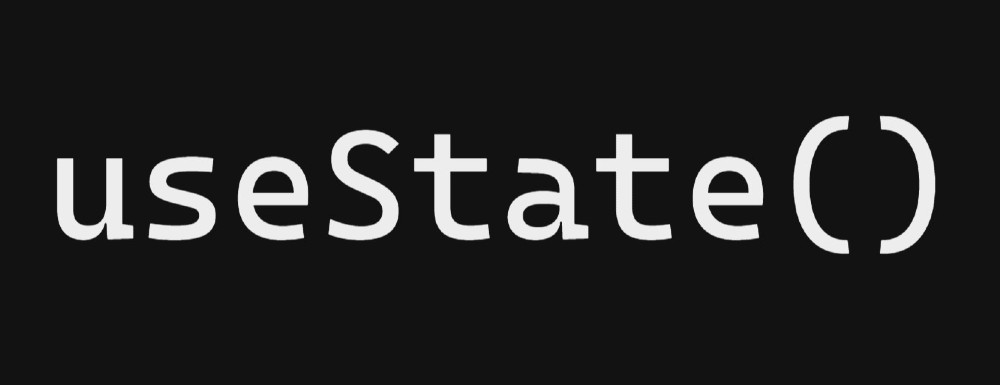
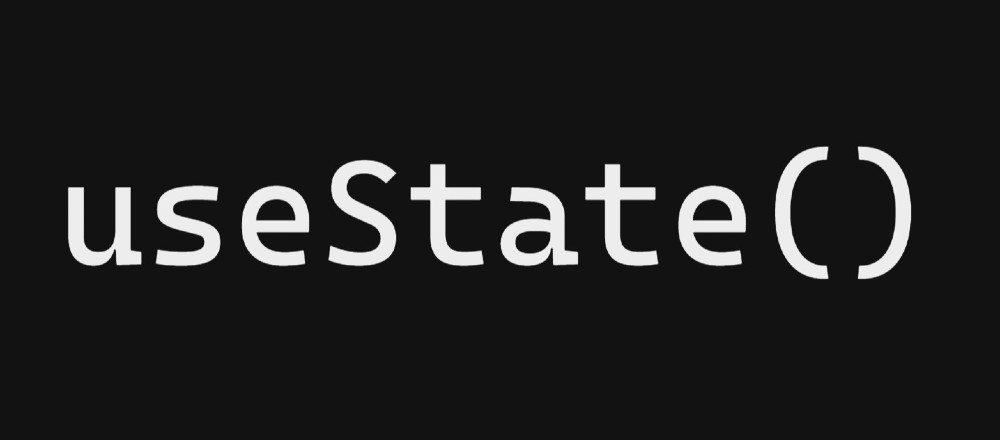
Update BlogPosts and resized useState screenshot.jpg

Changed region(s): [[0.031, 0.2805, 0.961, 0.6545]]

diff --git a/src/components/Blog/BlogPosts.js b/src/components/Blog/BlogPosts.js
@@ -13,7 +13,7 @@ import Link from '@material-ui/core/Link'
 
 const useStyles = makeStyles((theme) => ({
     root: {
-        maxWidth: 800,
+        maxWidth: 600,
         alignSelf: "center",
         margin: theme.spacing(2)
     },
@@ -32,11 +32,15 @@ const useStyles = makeStyles((theme) => ({
         },
     },
     title: {
-        fontWeight: "bold",
+        fontFamily: "'Varta', sans-serif",
         fontSize: "1.5rem",
         [theme.breakpoints.down('sm')]: {
-            fontSize: "1.25rem"
+            fontSize: "1.3rem"
         },
+    },
+    summary: {
+        fontSize: "1rem",
+        fontFamily: "'Varta', sans-serif",
     }
 }));
 
@@ -76,7 +80,7 @@ export default function BlogPosts() {
                                 <Typography gutterBottom variant="h5" component="h2" className={classes.title}>
                                     {blog.name}
                                 </Typography>
-                                <Typography variant="body2" color="textSecondary" component="p">
+                                <Typography variant="body2" color="textSecondary" component="p" className={classes.summary}>
                                     {blog.summary}
                                 </Typography>
                             </CardContent>
